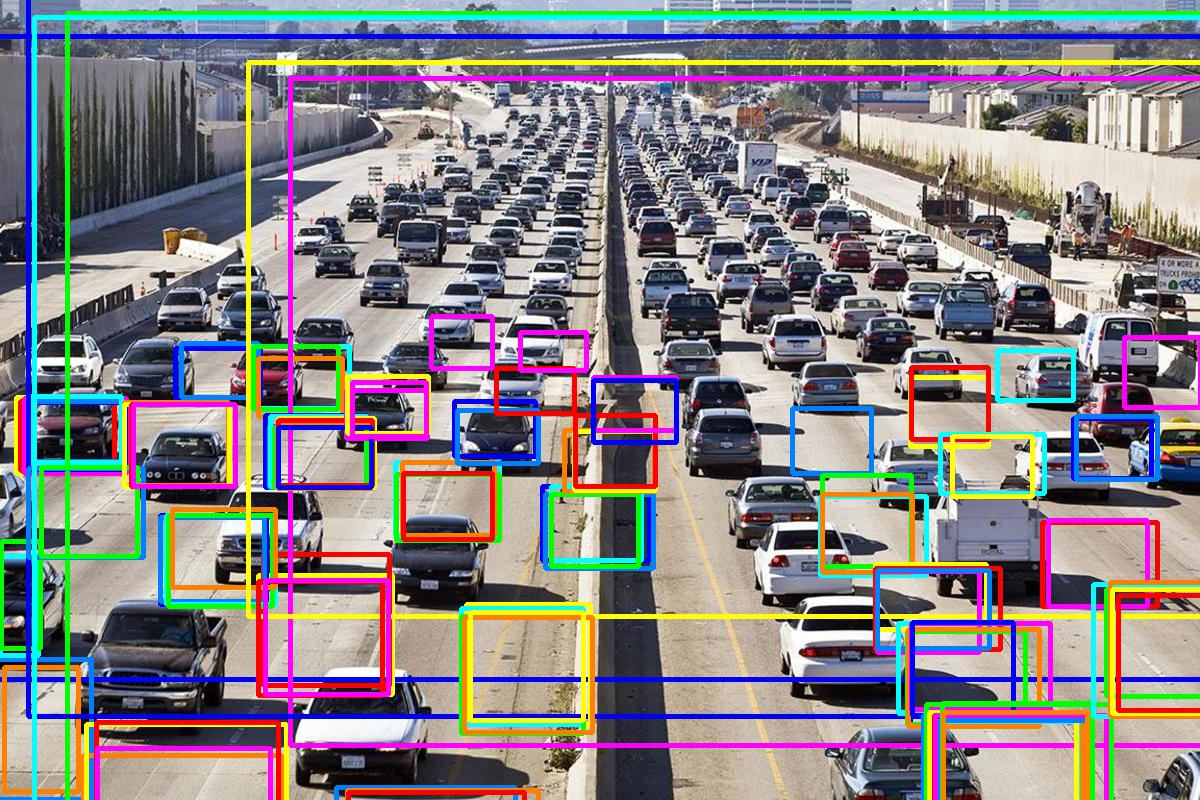
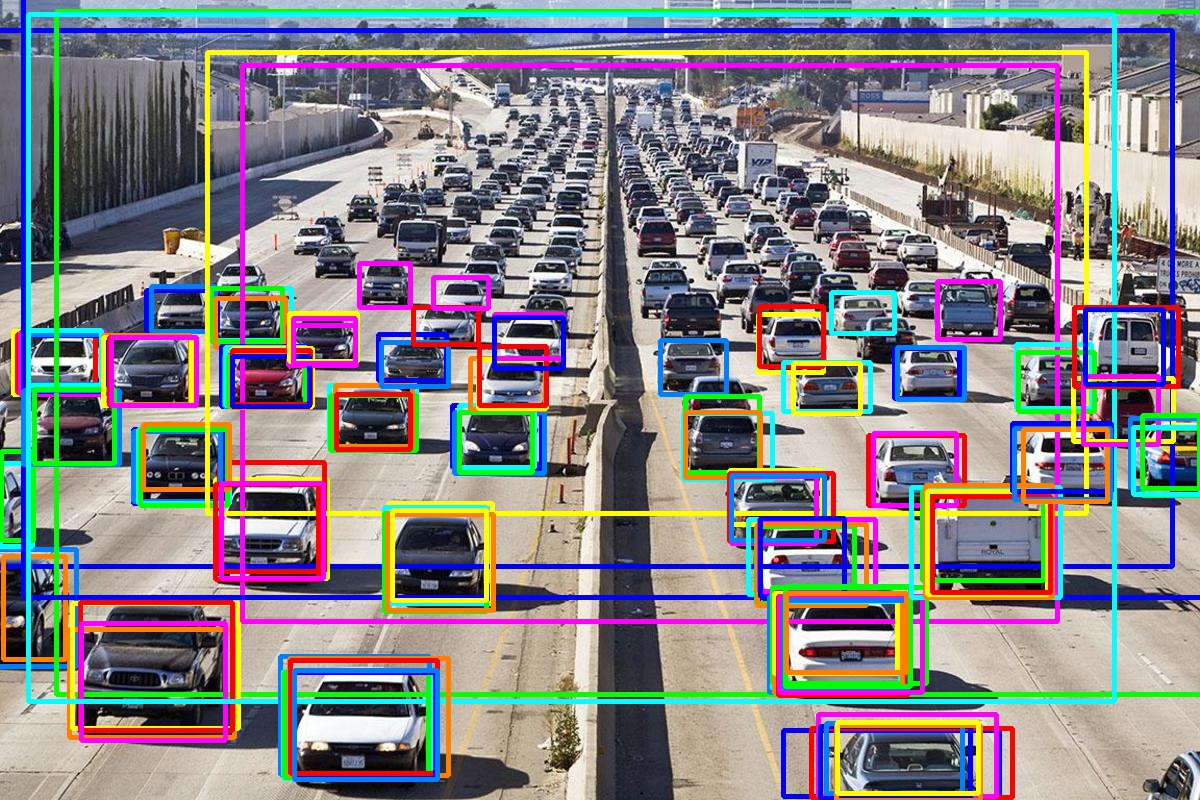
improving stability

diff --git a/src/main/java/com/java_devrel/samples/panama/third_party/opencv/c_api/c_api.cpp b/src/main/java/com/java_devrel/samples/panama/third_party/opencv/c_api/c_api.cpp
@@ -438,41 +438,80 @@ void formatDetections(Mat& frame, vector<Mat>& outs, Net& net, vector<ObjectDete
     static std::vector<int> outLayers = net.getUnconnectedOutLayers();
     static std::string outLayerType = net.getLayer(outLayers[0])->type;
 
-    for (long i = 0; i < outs.size(); ++i) {
-        float* data = (float*)outs[i].data;
-        for (int j = 0; j < outs[i].rows; ++j, data += outs[i].cols) {
-            Mat scores = outs[i].row(j).colRange(5, outs[i].cols);
-            Point classIdPoint;
-            double confidence;
-            minMaxLoc(scores, 0, &confidence, 0, &classIdPoint);
-            
-            bool ifMatch = (confidence > confidenceThreshold) &&
-                            checkElementByIndexAt(cocoaClasses, classIdPoint.x);
-            
-            if (ifMatch) {
-                int centerX = (int)(data[0] * frame.cols);
-                int centerY = (int)(data[1] * frame.rows);
-                int width = (int)(data[2] * frame.cols);
-                int height = (int)(data[3] * frame.rows);
+    if (outLayerType == "DetectionOutput") {
+        for (size_t k = 0; k < outs.size(); k++) {
+            float* data = (float*)outs[k].data;
+            for (size_t i = 0; i < outs[k].total(); i += 7) {
+                float confidence = data[i + 2];
+                int classID = (int)(data[i + 1]) - 1;
+                bool isMatch = (confidence > confidenceThreshold) &&
+                                checkElementByIndexAt(cocoaClasses, classID);
                 
-                int left = centerX - width / 2;
-                int top = centerY - height / 2;
-
-                ObjectDetectionDescriptor d = (ObjectDetectionDescriptor) {
-                    .className = strdup(cocoaClasses[classIdPoint.x].c_str()),
-                    .confidence = confidence,
-                    .rect = (ExportableRectangle) {
-                        .x = left,
-                        .y = top,
-                        .width = width,
-                        .height = height
+                if (isMatch) {
+                    int left   = (int)data[i + 3];
+                    int top    = (int)data[i + 4];
+                    int right  = (int)data[i + 5];
+                    int bottom = (int)data[i + 6];
+                    int width  = right - left + 1;
+                    int height = bottom - top + 1;
+                    if (width <= 2 || height <= 2) {
+                        left   = (int)(data[i + 3] * frame.cols);
+                        top    = (int)(data[i + 4] * frame.rows);
+                        right  = (int)(data[i + 5] * frame.cols);
+                        bottom = (int)(data[i + 6] * frame.rows);
+                        width  = right - left + 1;
+                        height = bottom - top + 1;
                     }
-                };
-                debug(toString(d));
-                ds.push_back(d);
+                    
+                    ds.push_back((ObjectDetectionDescriptor) {
+                        .className = strdup(cocoaClasses[classID].c_str()),
+                        .confidence = confidence,
+                        .rect = (ExportableRectangle) {
+                            .x = left,
+                            .y = top,
+                            .width = width,
+                            .height = height
+                        }
+                    });
+                }
             }
         }
-    }
+    } else if (outLayerType == "Region") {
+        for (long i = 0; i < outs.size(); ++i) {
+            float* data = (float*)outs[i].data;
+            for (int j = 0; j < outs[i].rows; ++j, data += outs[i].cols) {
+                Mat scores = outs[i].row(j).colRange(5, outs[i].cols);
+                Point classIdPoint;
+                double confidence;
+                minMaxLoc(scores, 0, &confidence, 0, &classIdPoint);
+                bool isMatch = (confidence > confidenceThreshold) &&
+                                checkElementByIndexAt(cocoaClasses, classIdPoint.x);
+                
+                if (isMatch) {
+                    int centerX = (int)(data[0] * frame.cols);
+                    int centerY = (int)(data[1] * frame.rows);
+                    int width = (int)(data[2] * frame.cols);
+                    int height = (int)(data[3] * frame.rows);
+                    
+                    int left = centerX - width / 2;
+                    int top = centerY - height / 2;
+
+                    ds.push_back((ObjectDetectionDescriptor) {
+                        .className = strdup(cocoaClasses[classIdPoint.x].c_str()),
+                        .confidence = confidence,
+                        .rect = (ExportableRectangle) {
+                            .x = left,
+                            .y = top,
+                            .width = width,
+                            .height = height
+                        }
+                    });
+                }
+            }
+        }
+    } else
+        CV_Error(Error::StsNotImplemented, "Unknown output layer type: " + outLayerType);
+
     debug("done with formatDetections");
 }
 
@@ -494,7 +533,10 @@ void runtObjectDetectionsOn(Mat& img, Net& net, vector<ObjectDetectionDescriptor
 /*---------------------------DNN detections API--------------------------*/
 /*-----------------------------------------------------------------------*/
 
-int runDetectionsOn(string imagePath, string modelPath, string modelWeights, string cocoaClassesFilePath, PositionalFrameObjectDetectionDescriptor& pds, double confidenceThreshold=0.4) {
+int runDetectionsOnImage(string imagePath, string modelPath, string modelWeights,
+                         string cocoaClassesFilePath,
+                         PositionalFrameObjectDetectionDescriptor& pds,
+                         double confidenceThreshold=0.4) {
     debug("in runDetectionsOn");
     dnn::Net net;
     Mat frame;
@@ -569,14 +611,6 @@ int runDetectionsOnVideo(string videoFilePath, string modelPath, string modelWei
     }
     debug(format("done with runDetectionsOnVideo, retCode: %d", retCode));
     return retCode;
-}
-
-int runDetectionsOnImage(string imagePath, string modelPath, string modelWeights,
-                         string cocoaClassesFilePath,
-                         PositionalFrameObjectDetectionDescriptor& pds,
-                         double confidenceThreshold=0.4) {
-    return runDetectionsOn(imagePath, modelPath, modelWeights, cocoaClassesFilePath,
-                           pds, confidenceThreshold=confidenceThreshold);
 }
 
 /*-----------------------------------------------------------------------*/

diff --git a/src/main/java/com/java_devrel/samples/panama/third_party/opencv/c_api/cpp_api.hpp b/src/main/java/com/java_devrel/samples/panama/third_party/opencv/c_api/cpp_api.hpp
@@ -15,14 +15,24 @@
 using namespace std;
 
 int imageToMatrix(string imagePath, int option, ExportableMat& exMat);
-int runClassificationsOnImage(string classifierPath, string imagePath, PositionalFrameObjectDetectionDescriptor& pds);
-int processVideoFile(string classifierPath, string videoFilePath, ExportableRectanglesPerFrame& exportableResult);
+
+int runClassificationsOnImage(string classifierPath, string imagePath,
+                              PositionalFrameObjectDetectionDescriptor& pds);
+
+int processVideoFile(string classifierPath, string videoFilePath,
+                     ExportableRectanglesPerFrame& exportableResult);
+
 int runDetectionsOnVideo(string videoFilePath, string modelPath, string modelWeights);
-int runDetectionsOnImage(string imagePath, string modelPath, string modelWeights, PositionalFrameObjectDetectionDescriptor& pds);
+
+int runDetectionsOnImage(string imagePath, string modelPath, string modelWeights,
+                         string cocoaClassesFilePath,
+                         PositionalFrameObjectDetectionDescriptor& pds,
+                         double confidenceThreshold=0.4);
 
 string toString(PositionalFrameObjectDetectionDescriptor& object);
 
-int drawDetectionsOnImage(string sourceImagePath, string finalImagePath, PositionalFrameObjectDetectionDescriptor& pds, double scale = 1.2);
+int drawDetectionsOnImage(string sourceImagePath, string finalImagePath,
+                          PositionalFrameObjectDetectionDescriptor& pds, double scale = 1.2);
 
 
 #endif /* cpp_api_hpp */

diff --git a/src/main/java/com/java_devrel/samples/panama/part_5/Main.java b/src/main/java/com/java_devrel/samples/panama/part_5/Main.java
@@ -36,14 +36,14 @@ public class Main {
                 int retCode;
                 var pds$ms = PositionalFrameObjectDetectionDescriptor.allocate(memorySession);
                 retCode = c_api_h.runDetectionsOnImage(
-                        source, modelPath$ms, modelWeightsPath$ms, cocoaClassesFilePath$ms, pds$ms, 0.2
+                        source, modelPath$ms, modelWeightsPath$ms, cocoaClassesFilePath$ms, pds$ms, 0.1
                 );
                 if (retCode != 0 ) {
                     System.exit(retCode);
                 }
 
                 System.out.println(c_api_h.PositionalFrameObjectDetectionDescriptor_toString(pds$ms).getUtf8String(0));
-                c_api_h.drawDetectionsOnImage(source, target, pds$ms, 1.2);
+                c_api_h.drawDetectionsOnImage(source, target, pds$ms, 1);
             });
         }
     }
